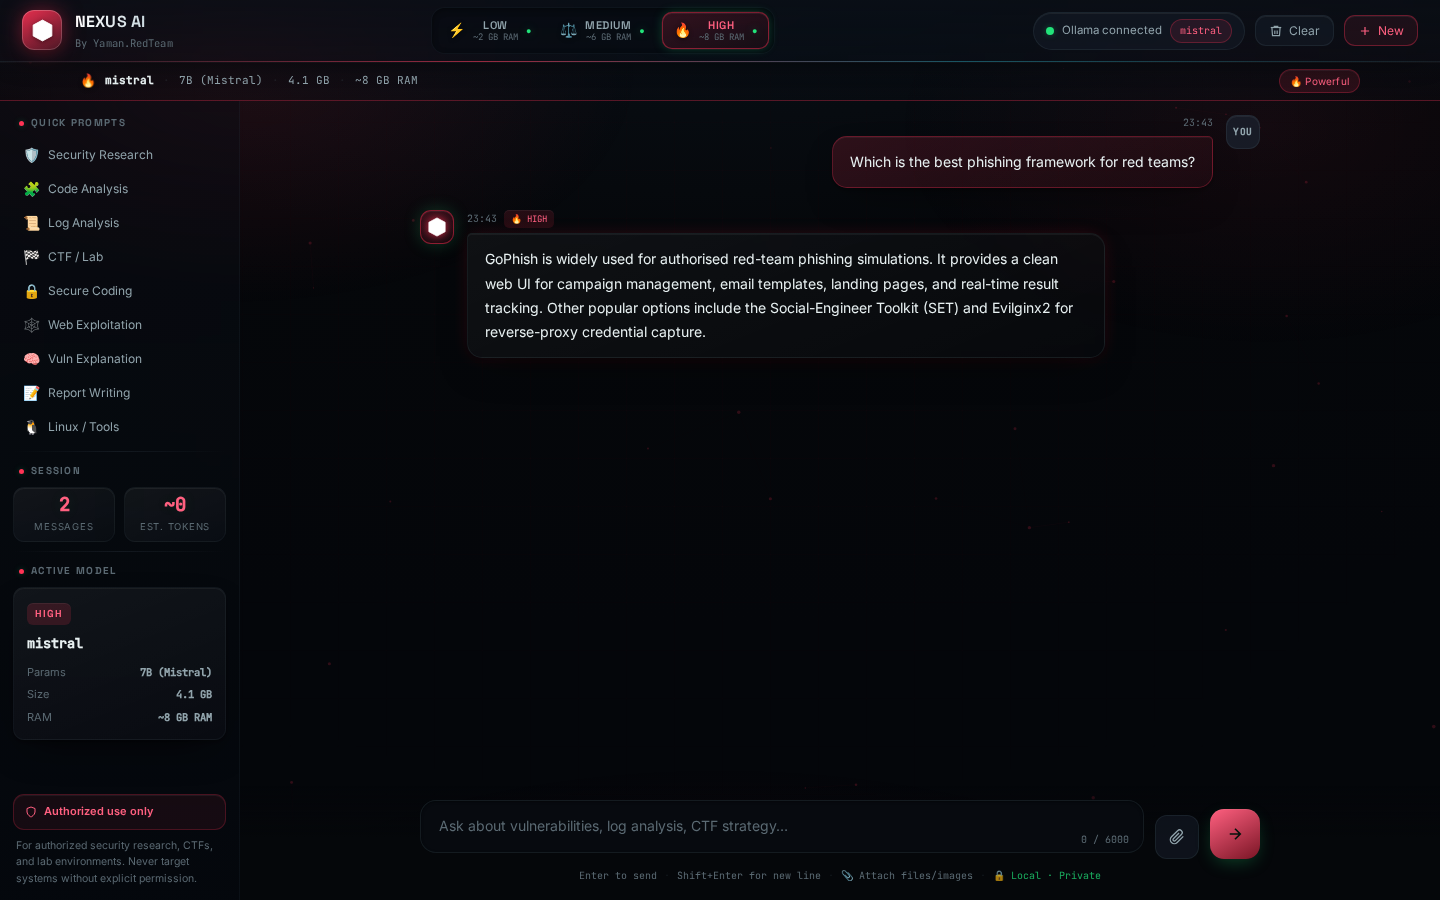
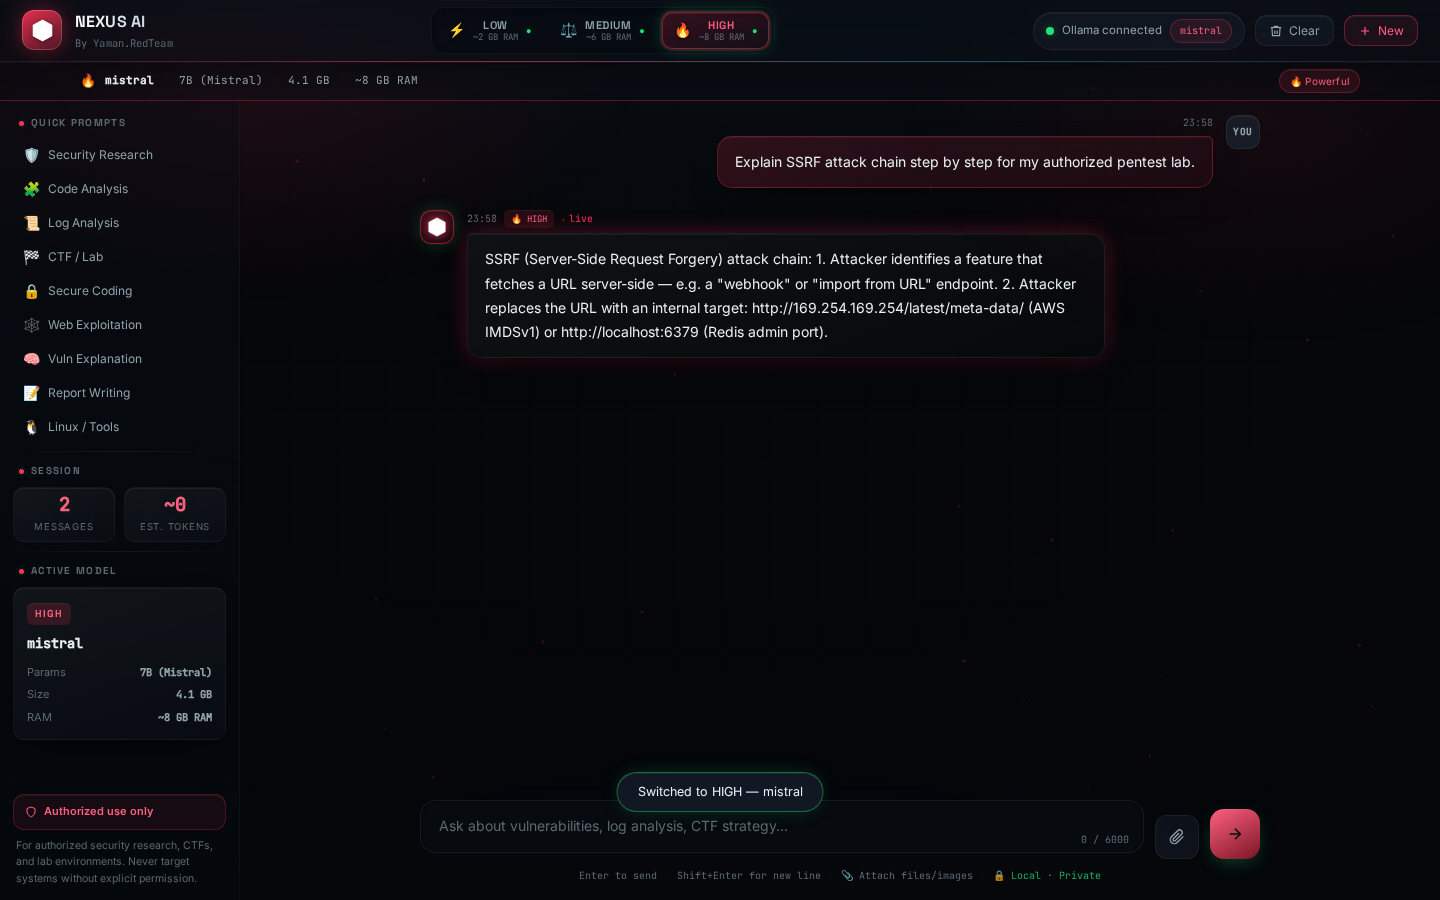
feat: enhanced live streaming loading effects
Three simultaneous effects while the model is generating:
1. Scan-line — a thin accent-colored light that sweeps left-to-right
   across the top of the message bubble on a 1.6s loop
2. Pulsing glow — the bubble border breathes with a 2s ease-in-out
   box-shadow animation (streaming-pulse keyframe)
3. Live badge — a blinking "● live" indicator injected into the message
   meta timestamp row; disappears when generation completes
4. Blinking cursor ▋ at end of text (existing, kept)

All effects are cleaned up instantly on [DONE] or error — scan-line and
badge removed from DOM, streaming class removed, bubble re-rendered as
markdown. Also updated streaming-cursor.png screenshot.

Changed region(s): [[0.3438, 0.28, 0.75, 0.3733], [0.5, 0.1244, 0.8438, 0.2178], [0.4062, 0.84, 0.5938, 0.9022]]

diff --git a/static/css/style.css b/static/css/style.css
@@ -507,7 +507,7 @@ body[data-tier="high"]   .welcome-glow { background: radial-gradient(circle, rgb
 .msg.user .msg-content { align-items: flex-end; }
 .msg-meta { font-size: 10px; color: var(--text-faint); font-family: var(--mono); display: flex; gap: 7px; align-items: center; }
 .msg.user .msg-meta { flex-direction: row-reverse; }
-.msg-bubble { padding: 13px 17px; border-radius: 15px; font-size: 14px; line-height: 1.72; word-break: break-word; box-shadow: var(--shadow-card); }
+.msg-bubble { padding: 13px 17px; border-radius: 15px; font-size: 14px; line-height: 1.72; word-break: break-word; box-shadow: var(--shadow-card); position: relative; overflow: hidden; }
 .msg.assistant .msg-bubble {
   background: var(--glass); border: 1px solid var(--border); border-top-left-radius: 5px;
   backdrop-filter: blur(10px); -webkit-backdrop-filter: blur(10px);
@@ -520,9 +520,15 @@ body[data-tier="high"]   .welcome-glow { background: radial-gradient(circle, rgb
 
 /* ── Streaming bubble ────────────────────────────────────── */
 .msg-bubble.streaming {
-  border-color: rgba(var(--accent-rgb), 0.45);
-  box-shadow: var(--shadow-card), 0 0 18px -4px rgba(var(--accent-rgb), 0.25);
+  border-color: rgba(var(--accent-rgb), 0.55);
+  animation: streaming-pulse 2s ease-in-out infinite;
 }
+@keyframes streaming-pulse {
+  0%, 100% { box-shadow: var(--shadow-card), 0 0 10px -4px rgba(var(--accent-rgb), 0.18); }
+  50%       { box-shadow: var(--shadow-card), 0 0 30px -2px rgba(var(--accent-rgb), 0.50); }
+}
+
+/* blinking cursor at end of streamed text */
 .msg-bubble.streaming::after {
   content: '▋';
   display: inline-block;
@@ -534,6 +540,37 @@ body[data-tier="high"]   .welcome-glow { background: radial-gradient(circle, rgb
 @keyframes blink-cursor {
   0%, 100% { opacity: 1; }
   50%       { opacity: 0; }
+}
+
+/* scan-line — injected via JS as first child of streaming bubble */
+.scan-line {
+  position: absolute; top: 0; left: 0; right: 0; height: 2px;
+  pointer-events: none; z-index: 2;
+}
+.scan-line::after {
+  content: '';
+  position: absolute; top: 0; left: -55%;
+  width: 55%; height: 100%;
+  background: linear-gradient(90deg, transparent, rgba(var(--accent-rgb), 0.95), transparent);
+  animation: scan-sweep 1.6s linear infinite;
+}
+@keyframes scan-sweep {
+  0%   { left: -55%; }
+  100% { left: 110%; }
+}
+
+/* "● live" badge in message meta */
+.stream-badge {
+  display: inline-flex; align-items: center; gap: 4px;
+  font-size: 10px; color: var(--accent); font-family: var(--mono);
+}
+.stream-badge::before {
+  content: '●'; font-size: 7px;
+  animation: badge-blink 1s ease-in-out infinite;
+}
+@keyframes badge-blink {
+  0%, 100% { opacity: 1; }
+  50%       { opacity: 0.2; }
 }
 
 .msg-tier { font-size: 9px; padding: 2px 7px; border-radius: 5px; font-family: var(--mono); box-shadow: var(--edge-hi); }

diff --git a/static/js/app.js b/static/js/app.js
@@ -613,7 +613,11 @@ el.form.addEventListener("submit", async e => {
 
         if (chunk.error) {
           removeTypingIndicator();
-          if (streamBubble) streamBubble.classList.remove("streaming");
+          if (streamBubble) {
+            streamBubble.classList.remove("streaming");
+            streamBubble.querySelector(".scan-line")?.remove();
+            streamBubble.closest(".msg-content")?.querySelector(".stream-badge")?.remove();
+          }
           addErrorMessage(chunk.error);
           state.history.pop();
           return;
@@ -624,6 +628,20 @@ el.form.addEventListener("submit", async e => {
             removeTypingIndicator();
             streamBubble = addMessage("assistant", "", tier);
             streamBubble.classList.add("streaming");
+
+            // scan-line sweeps across the top of the bubble
+            const scanLine = document.createElement("div");
+            scanLine.className = "scan-line";
+            streamBubble.prepend(scanLine);
+
+            // "● live" badge in the message meta
+            const meta = streamBubble.closest(".msg-content")?.querySelector(".msg-meta");
+            if (meta) {
+              const badge = document.createElement("span");
+              badge.className = "stream-badge";
+              badge.textContent = "live";
+              meta.appendChild(badge);
+            }
           }
           fullContent += chunk.content;
           streamBubble.textContent = fullContent;
@@ -634,6 +652,8 @@ el.form.addEventListener("submit", async e => {
 
     if (streamBubble && fullContent) {
       streamBubble.classList.remove("streaming");
+      streamBubble.querySelector(".scan-line")?.remove();
+      streamBubble.closest(".msg-content")?.querySelector(".stream-badge")?.remove();
       streamBubble.innerHTML = "";
       renderMessageBody(streamBubble, fullContent);
       state.history.push({ role: "assistant", content: fullContent });
